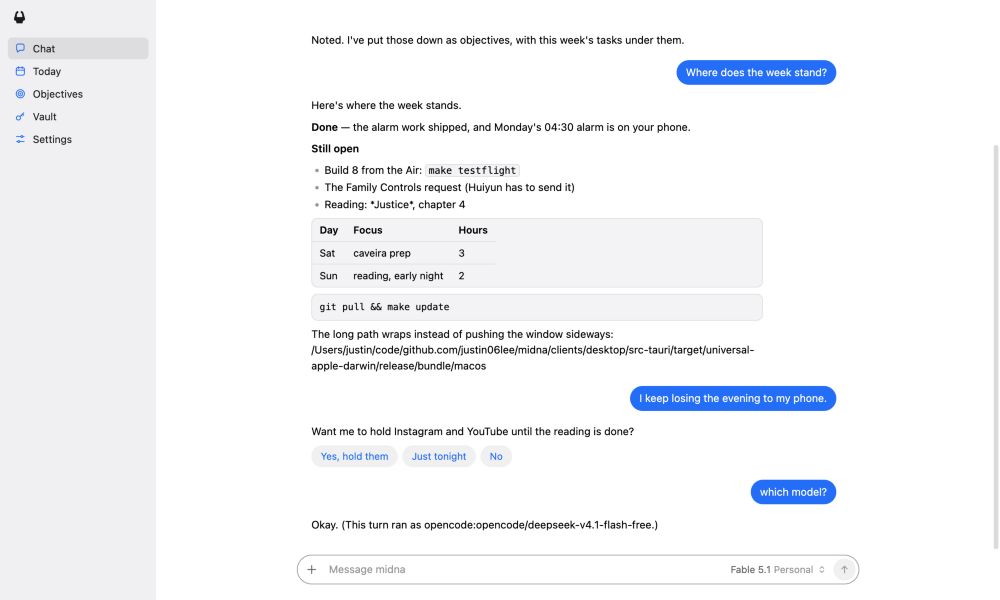
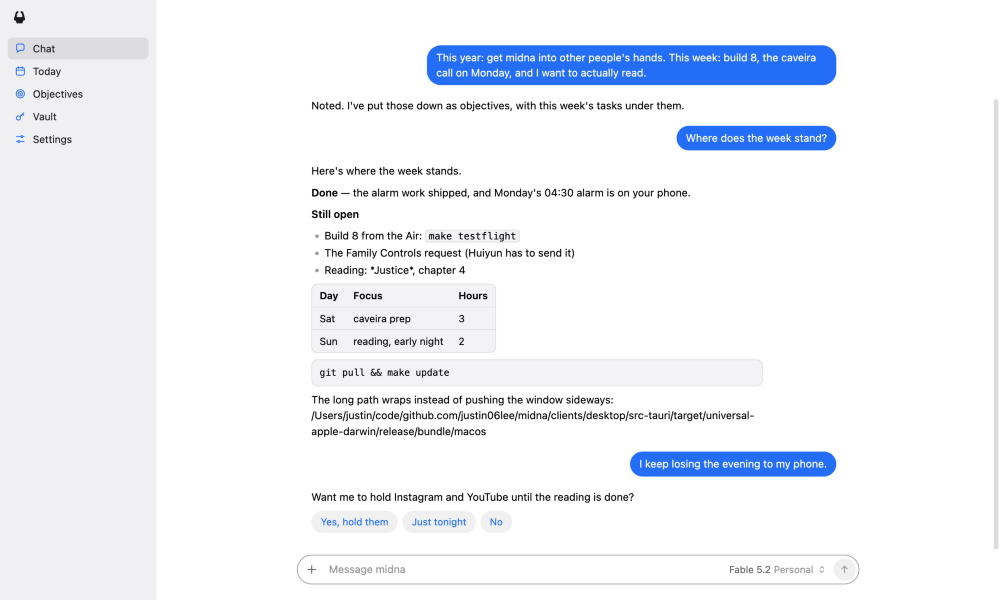
docs(apple-pass): round 2's pictures, before and after, and how a model gets its name

diff --git a/docs/apple-pass/README.md b/docs/apple-pass/README.md
@@ -2,6 +2,19 @@
 
 A rough pass, for review before it goes further. Not pushed, no app built, nothing on the host.
 
+## Round 2 (after the first review)
+
+| What was wrong | Before | After |
+| --- | --- | --- |
+| The phone's code block was in a serif face, and "Sent from desktop" sat under every bubble | `phone-chat-before.png` | `phone-chat-after.png` |
+| The Mac's table sat in a grey box wider than itself | `mac-table-before.png` | `mac-table-after.png` |
+| The menu offered "Fable 5.1" and hid 5.2; the account rows led with the addresses | round 1's menu | `mac-model-menu.png` |
+
+- **Model names.** Round 1 offered Claude's aliases from a list written in the app, and "fable" stands for Fable 5.1 in Claude Code today, so 5.2 was hidden behind "9 more". Now nothing in the apps knows a model: a name, and the model an alias stands for, come from the brain's own list (the route carries each entry's real id). Claude's group leads with the start of that list, which today is Opus 5.5, Fable 5.2, Sonnet 5.5, Haiku 5.5; Fable 5.1 is under "more". Hover a model on the Mac to see what it resolves to ("opus is claude-opus-5-5"). The stand-in line and the fallbacks are named the same way. In the pictures the model is set to Fable 5.2 with DeepSeek as the fallback.
+- **The serif** was the web render, not the phone: the app asks iOS for its monospaced system face (SF Mono), which React Native on iOS provides, and the browser the pictures are taken in doesn't know that name. The preview is now told the faces by name, so the picture matches what the phone draws.
+- **"Sent from …"** is gone from the phone. On the Mac it was the same noise the other way round, so it is only in the bubble's tooltip now, with the time.
+- **Account rows** on the Mac put the name first, with the address (or when its usage is back) under it, smaller and grey.
+
 ## What to look at
 
 | Picture | What it shows |
@@ -22,7 +35,7 @@ The Mac pictures are the app's page in a browser against a throwaway midna (`bun
 - **Mac:** a pop-up button in the composer names what is thinking (model and Claude account) and opens a menu of every installed brain's models and the two accounts. Settings has the same menu, the account, the fallback list and a field for a model the menu doesn't list.
 - **Phone:** the chat's header names the model; tapping it opens a sheet of the same choices. Settings has a Model row that opens it too.
 - A choice is `PATCH /v1/settings` (`model`, `account`), so it is the host's setting and every device shows it. It holds from midna's next turn.
-- The list comes from `GET /v1/brains` and Status, which today's host (0.13.6) has. The one addition is `GET /v1/brains/:id/models`, which asks each brain for its own models; until the host is updated the apps show a short list they work out themselves (Claude's opus, fable, sonnet and haiku, each other brain's default, and whatever is set or a fallback, such as DeepSeek through OpenCode Zen).
+- The one addition to the host is `GET /v1/brains/:id/models`, which asks each brain for its own models, with their names and what each alias stands for. Today's host (0.13.6) doesn't have it. Until it is updated the picker offers only what the host itself names (the model that is set, the fallbacks, each other brain's default), each by its id as written, and says the host can't list the rest; the Mac's Settings can still name any model by hand. So the switcher is only really useful once the host has this branch's daemon.
 
 ## The look
 

diff --git a/docs/providers.md b/docs/providers.md
@@ -18,7 +18,7 @@ midna status                               # the model, its fallbacks, which is 
 
 Both apps have a model picker: the pop-up button in the Mac app's composer, the model's name in the phone's chat header, and a row in each one's Settings. It lists every installed brain's models and the two Claude accounts ([accounts.md](accounts.md)), marks what is set, and says when a stand-in is thinking because the set one is out of usage. A choice is the host's setting, so every device shows it, and it holds from the next turn.
 
-The list is built the same way in both apps (`packages/protocol/src/models.ts`) from `/v1/status`, `/v1/brains` and, from 0.13.7, `GET /v1/brains/:id/models`: the brain's own list, asked through yagami with no tokens spent and kept for ten minutes (Claude's is per account: `?account=personal`). A host without that route still gets Claude's four aliases, each other brain's default, and whatever is set or a fallback. The Mac app's Settings also has the fallback list and a field for a model the menu doesn't list.
+The list is built the same way in both apps (`packages/protocol/src/models.ts`) from `/v1/status`, `/v1/brains` and, from 0.13.7, `GET /v1/brains/:id/models`: the brain's own list, asked through yagami with no tokens spent and kept for ten minutes (Claude's is per account: `?account=personal`). Each entry carries the brain's own name for the model and the id an alias stands for ("fable" is `claude-fable-5-1` in Claude Code today, while Fable 5.2 is listed under its full id), and nothing in the apps names a model itself: Claude's group leads with the start of Claude Code's list, its current models. A host without that route offers only what it names itself (the model set, the fallbacks, each other brain's default) by id, and says it can't list the rest. The Mac app's Settings also has the fallback list and a field for a model the menu doesn't list.
 
 ## What happens at a cap
 
